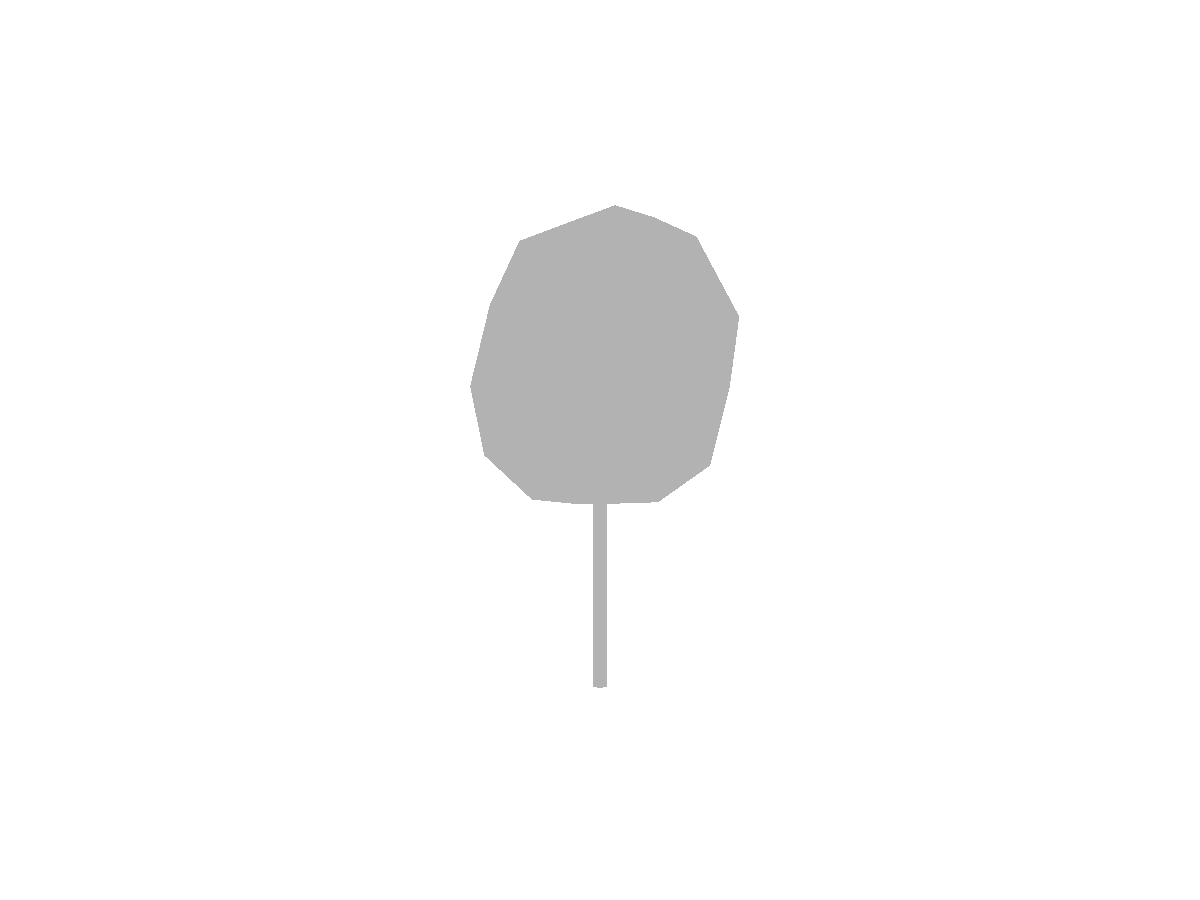
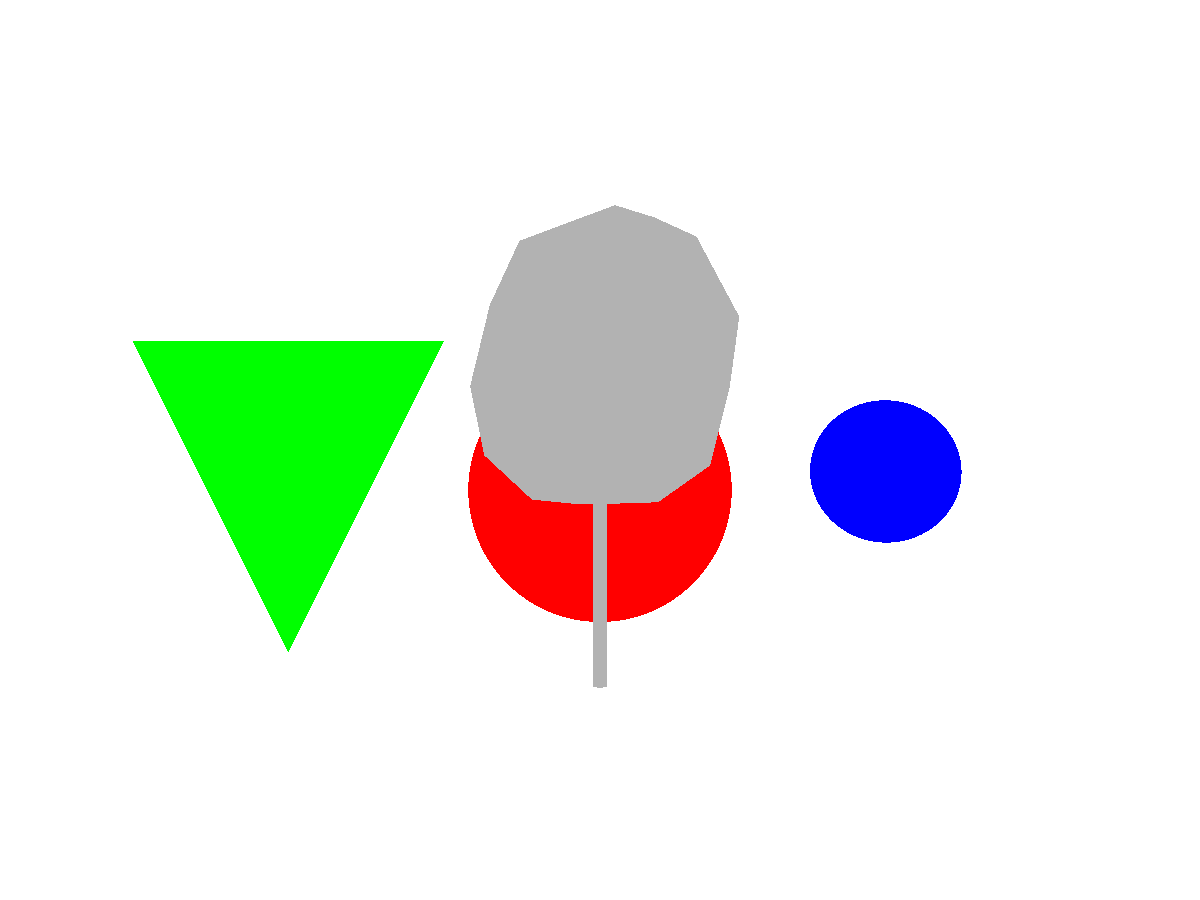
testing

Changed region(s): [[0.0925, 0.3733, 0.37, 0.7156], [0.37, 0.4978, 0.6167, 0.7156], [0.6783, 0.4356, 0.8017, 0.6222]]

diff --git a/Raytracer.java b/Raytracer.java
@@ -45,11 +45,11 @@ public class Raytracer {
         // Scene
         Scene scene = new Scene();
 
-        /*
+        
         scene.addObject(new Sphere(new Vector3D(0, 0, -5), 1, new Vector3D(1, 0, 0)));
         scene.addObject(new Sphere(new Vector3D(4,0, -10), 1 ,new Vector3D(0, 0, 1)));
         scene.addObject(new Triangle(new Vector3D(-2, -1, -4), new Vector3D(-1, 1, -4), new Vector3D(-3, 1, -4), new Vector3D(0, 1, 0)));
-        */
+        
 
         List<Triangle> tris = OBJReader.load("CottonCandy.obj", new Vector3D(0.7, 0.7, 0.7));
         OBJReader.printBounds(tris);
